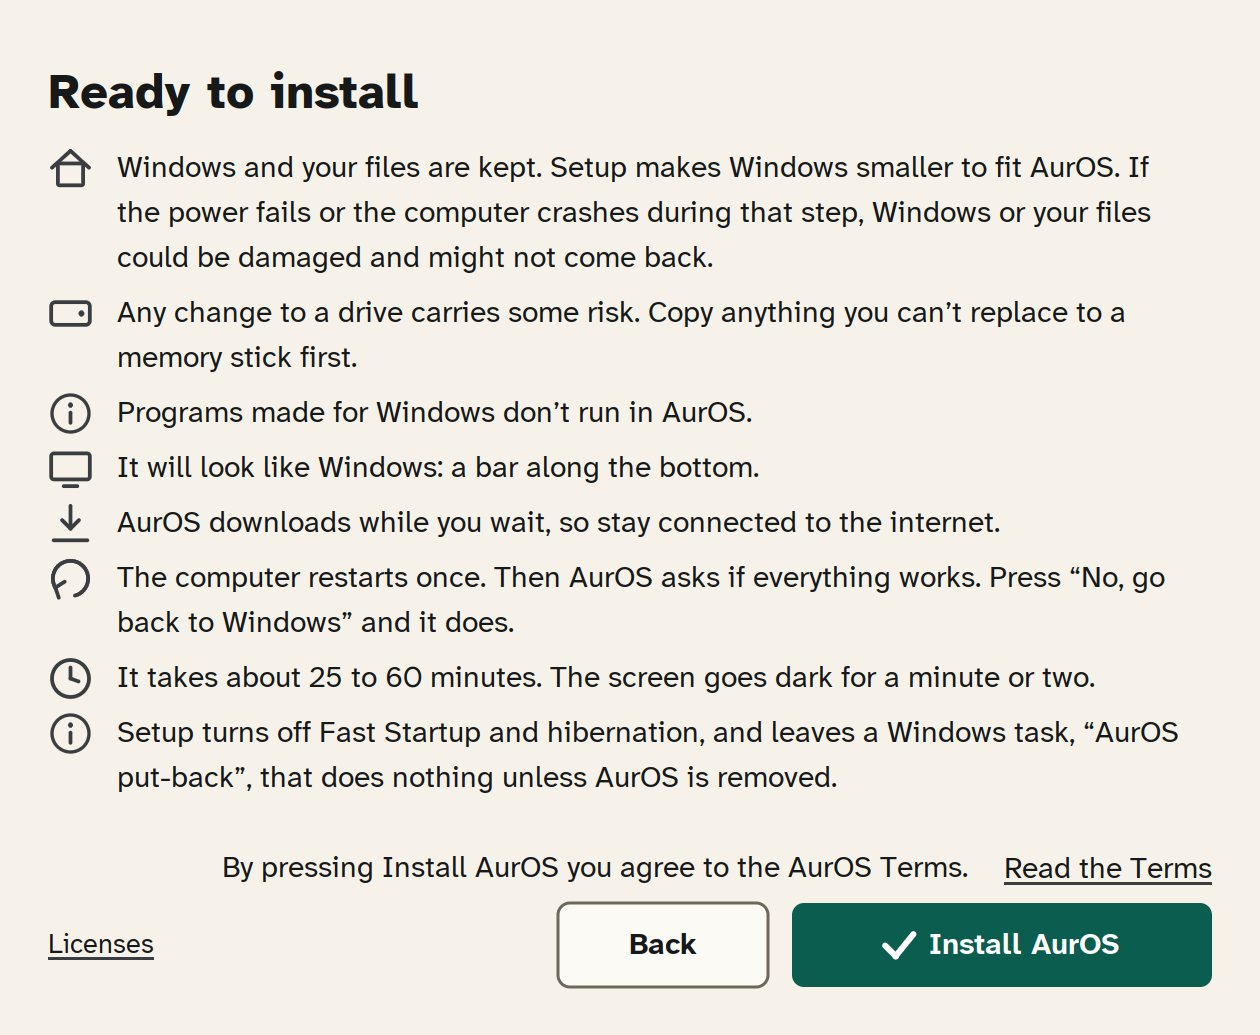
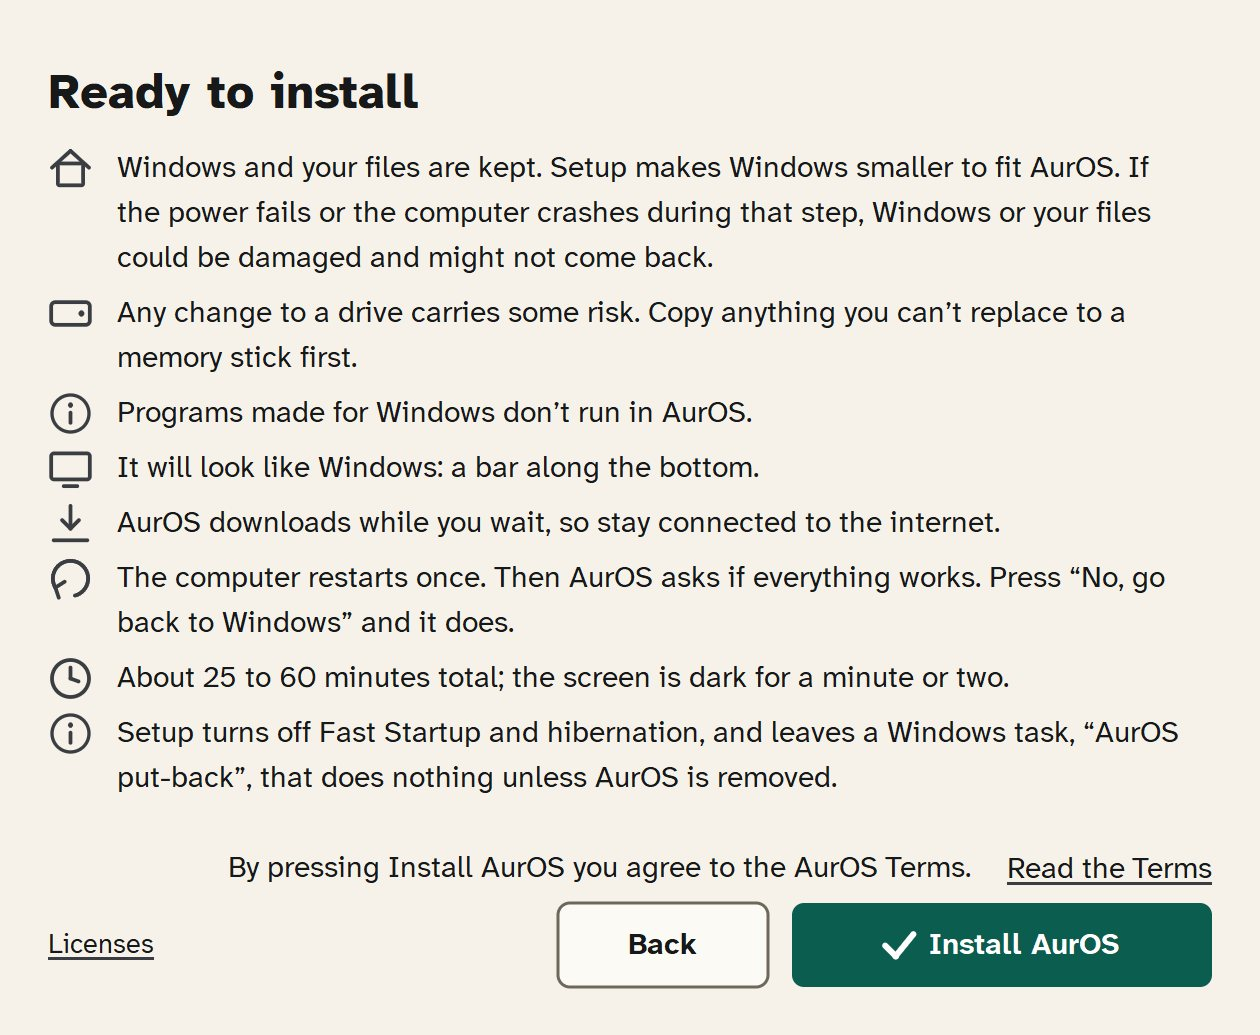
site: refresh Ready screenshot from native Windows proof

diff --git a/tools/site/pictures.py b/tools/site/pictures.py
@@ -42,6 +42,9 @@ KEEP_FROM_X = 420          # 280 px of step list, at 1.5x
 
 # Set to True only when the three Setup pictures are screenshots of AurOS Setup
 # on a real Windows PC (docs/shots/wizard retaken by B, P2-18).
+# Ready was refreshed from hosted Windows run 40161803540, source 6a732d79,
+# artifact wizard-shots-windows. The other Setup renders remain Wine captures;
+# this mixed set is not physical-PC evidence.
 REAL_WINDOWS = False
 
 # Every line of text each picture shows, as the source writes it.
@@ -75,7 +78,7 @@ SAYS = {
         "It will look like Windows: a bar along the bottom.",
         "AurOS downloads while you wait, so stay connected to the internet.",
         "The computer restarts once. Then AurOS asks if everything works. Press “No, go back to Windows” and it does.",
-        "It takes about 25 to 60 minutes. The screen goes dark for a minute or two.",
+        "About 25 to 60 minutes total; the screen is dark for a minute or two.",
         "Setup turns off Fast Startup and hibernation, and leaves a Windows task, “AurOS put-back”, that does nothing unless AurOS is removed.",
         "By pressing Install AurOS you agree to the AurOS Terms.",
         "Read the Terms",
